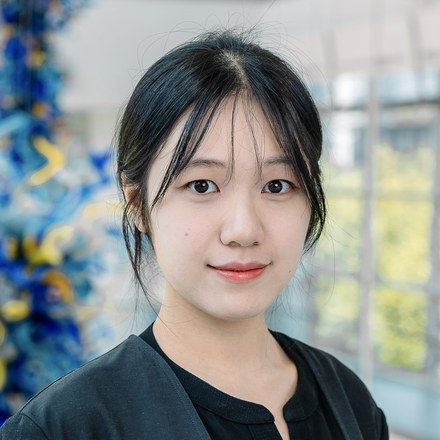
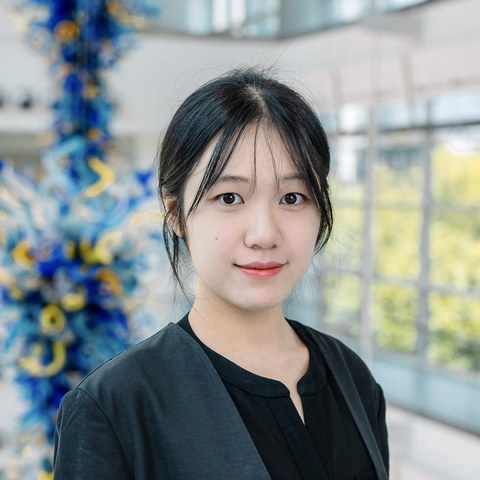
Widen layout, enlarge type, square the photo
Column goes 712px to 1068px and body type to 17.5px, with section labels at
15.5px. Photo is square and cropped wider so the face reads smaller. All text
is now full black except the paper summaries; navy stays on links and the venue
label. Copy: Research Interests, Paper/Website, Presented/Scheduled, 2026 Spring.

diff --git a/index.html b/index.html
@@ -30,7 +30,7 @@
 
     --text:"Libre Franklin","Helvetica Neue",Helvetica,Arial,sans-serif;
     --display:"Source Serif 4","Source Serif Pro",Georgia,"Times New Roman",serif;
-    --max:712px;
+    --max:1068px;
   }
   @media (prefers-color-scheme:dark){
     :root{
@@ -49,7 +49,7 @@
   html{-webkit-text-size-adjust:100%}
   body{
     margin:0; background:var(--bg); color:var(--fg);
-    font-family:var(--text); font-size:16.5px; line-height:1.68;
+    font-family:var(--text); font-size:17.5px; line-height:1.66;
     -webkit-font-smoothing:antialiased; text-rendering:optimizeLegibility;
   }
   .wrap{max-width:var(--max); margin:0 auto; padding:clamp(44px,7vw,78px) 26px 72px}
@@ -61,20 +61,19 @@
   /* ---------- masthead ---------- */
   header{display:flex; align-items:center; gap:26px; flex-wrap:wrap}
   #photo{
-    width:96px; height:96px; flex:0 0 auto;
-    object-fit:cover; border-radius:50%;
-    filter:saturate(.92);
+    width:132px; height:132px; flex:0 0 auto;
+    object-fit:cover; border-radius:2px;
   }
   .id{flex:1 1 17rem; min-width:15rem}
   h1{
     font-family:var(--display); font-weight:600;
-    font-size:clamp(34px,5.6vw,44px); line-height:1.06; letter-spacing:-.022em;
+    font-size:clamp(38px,5.4vw,50px); line-height:1.06; letter-spacing:-.022em;
     margin:0 0 9px;
   }
-  .role{margin:0; font-size:15px; line-height:1.5; color:var(--fg-muted)}
-  .role .aff{color:var(--fg)}
+  .role{margin:0; font-size:16.5px; line-height:1.5; color:var(--fg)}
+  .role .aff{font-weight:600}
 
-  .contact{margin:13px 0 0; font-size:14px; color:var(--fg-faint)}
+  .contact{margin:14px 0 0; font-size:15px; color:var(--fg)}
   .contact a{color:var(--accent); text-decoration:none; font-weight:500}
   .contact a:hover{text-decoration:underline}
   .contact span{margin:0 .55em; color:var(--border)}
@@ -82,53 +81,53 @@
   /* ---------- sections ---------- */
   section{margin-top:52px}
   h2{
-    font-family:var(--text); font-size:12px; font-weight:600;
-    text-transform:uppercase; letter-spacing:.085em; color:var(--fg-faint);
-    margin:0 0 22px; padding-bottom:9px; border-bottom:1px solid var(--border);
+    font-family:var(--text); font-size:15.5px; font-weight:600;
+    text-transform:uppercase; letter-spacing:.1em; color:var(--fg);
+    margin:0 0 24px; padding-bottom:11px; border-bottom:1px solid var(--border);
   }
 
-  .bio{margin:0 0 20px; max-width:34em}
-  .interests{font-size:14.5px; color:var(--fg-muted)}
+  .bio{margin:0 0 22px; max-width:54em}
+  .interests{font-size:16px; color:var(--fg)}
   .interests b{
-    font-size:12px; font-weight:600; text-transform:uppercase; letter-spacing:.085em;
-    color:var(--fg-faint); margin-right:.75em;
+    font-size:13px; font-weight:600; text-transform:uppercase; letter-spacing:.09em;
+    color:var(--fg); margin-right:.8em;
   }
 
   /* ---------- papers ---------- */
   .paper + .paper{margin-top:30px; padding-top:30px; border-top:1px solid var(--rule-soft)}
   .kind{
-    display:block; font-size:11.5px; font-weight:600;
-    text-transform:uppercase; letter-spacing:.085em; color:var(--accent);
-    margin-bottom:7px;
+    display:block; font-size:13px; font-weight:600;
+    text-transform:uppercase; letter-spacing:.09em; color:var(--accent);
+    margin-bottom:8px;
   }
   .paper h3{
-    font-family:var(--display); font-weight:600; font-size:20px; line-height:1.28;
+    font-family:var(--display); font-weight:600; font-size:23px; line-height:1.26;
     letter-spacing:-.008em; margin:0 0 6px; color:var(--fg);
   }
-  .authors{margin:0 0 10px; font-size:14.5px; color:var(--fg-faint)}
-  .authors .me{color:var(--fg); font-weight:600}
-  .summary{margin:0; font-size:15px; line-height:1.62; color:var(--fg-muted); max-width:36em}
+  .authors{margin:0 0 11px; font-size:16px; color:var(--fg)}
+  .authors .me{font-weight:600}
+  .summary{margin:0; font-size:16.5px; line-height:1.62; color:var(--fg-muted); max-width:54em}
   .venues{
-    margin:11px 0 0; font-size:13px; line-height:1.6; color:var(--fg-faint); max-width:36em;
+    margin:13px 0 0; font-size:14.5px; line-height:1.6; color:var(--fg); max-width:54em;
   }
   .venues b{
-    font-size:11.5px; font-weight:600; text-transform:uppercase; letter-spacing:.085em;
-    color:var(--fg-faint);
+    font-size:13px; font-weight:600; text-transform:uppercase; letter-spacing:.09em;
+    color:var(--fg);
   }
-  .links{margin:11px 0 0; font-size:13.5px; font-weight:500}
+  .links{margin:13px 0 0; font-size:15px; font-weight:500}
   .links a{color:var(--accent); text-decoration:none}
   .links a:hover{text-decoration:underline}
   .links span{margin:0 .5em; color:var(--border)}
-  .avail{margin:11px 0 0; font-size:13px; font-style:italic; color:var(--fg-faint)}
+  .avail{margin:13px 0 0; font-size:14.5px; font-style:italic; color:var(--fg)}
 
   /* ---------- teaching ---------- */
-  .course{display:flex; gap:18px; align-items:baseline; font-size:15px}
-  .course .name{font-family:var(--display); font-size:17px; font-weight:600}
-  .course .where{color:var(--fg-faint); font-size:13.5px; margin-left:auto; white-space:nowrap}
+  .course{display:flex; gap:18px; align-items:baseline; font-size:16px}
+  .course .name{font-family:var(--display); font-size:19px; font-weight:600}
+  .course .where{color:var(--fg); font-size:15px; margin-left:auto; white-space:nowrap}
 
   @media (max-width:560px){
     header{gap:20px}
-    #photo{width:80px; height:80px}
+    #photo{width:104px; height:104px}
     .course{display:block}
     .course .where{margin:2px 0 0}
   }
@@ -154,7 +153,7 @@
     <p class="bio">My research studies how financial distress propagates to households and firms, with
       particular attention to credit access and lender intervention. I also study how AI agents and machine
       learning can open new empirical questions in economics and finance.</p>
-    <p class="interests"><b>Interests</b>Household finance &middot; Financial distress &middot; AI agents</p>
+    <p class="interests"><b>Research Interests</b>Household finance &middot; Financial distress &middot; AI agents</p>
   </section>
 
   <section id="publications">
@@ -169,7 +168,7 @@
         months of hourly predictions, LLM agents perform broadly comparably to Federal Reserve nowcasts and the
         Bloomberg professional consensus.</p>
       <p class="links">
-        <a href="https://arxiv.org/abs/2608.30110">arXiv</a><span>/</span><a href="https://livemacroeval.github.io/">Live benchmark</a>
+        <a href="https://arxiv.org/abs/2608.30110">Paper</a><span>/</span><a href="https://livemacroeval.github.io/">Website</a>
       </p>
     </article>
   </section>
@@ -184,7 +183,7 @@
         consumer credit limits. Credit-constrained households cannot replace the lost credit and face
         persistent declines in borrowing capacity, revealing a retail credit card channel through which
         retailer bankruptcies impose lasting externalities on households.</p>
-      <p class="venues"><b>Presented</b><br>American Finance Association Annual Meeting 2027 &middot;
+      <p class="venues"><b>Presented/Scheduled</b><br>American Finance Association Annual Meeting 2027 &middot;
         Northern Finance Association Annual Meeting 2026 &middot; Boulder Summer Conference (poster) 2026 &middot;
         Georgia Tech &ndash; Atlanta Fed Household Finance Conference 2026</p>
       <p class="avail">Draft available on request.</p>
@@ -197,7 +196,7 @@
         in 67% of covenant violations, 22% of them involving material terms. Waived firms face larger increases
         in interest expenses, deeper investment cuts, and higher bankruptcy risk, consistent with creditor rent
         extraction rather than pure borrower relief.</p>
-      <p class="venues"><b>Presented</b><br>AI and the Future of Finance Conference 2026 (poster) &middot;
+      <p class="venues"><b>Presented/Scheduled</b><br>AI and the Future of Finance Conference 2026 (poster) &middot;
         Georgia Tech 2025</p>
       <p class="avail">Draft available on request.</p>
     </article>
@@ -207,7 +206,7 @@
     <h2>Teaching</h2>
     <p class="course">
       <span class="name">MGT 4066: Corporate Restructuring</span>
-      <span class="where">Georgia Tech</span>
+      <span class="where">2026 Spring</span>
     </p>
   </section>
 
